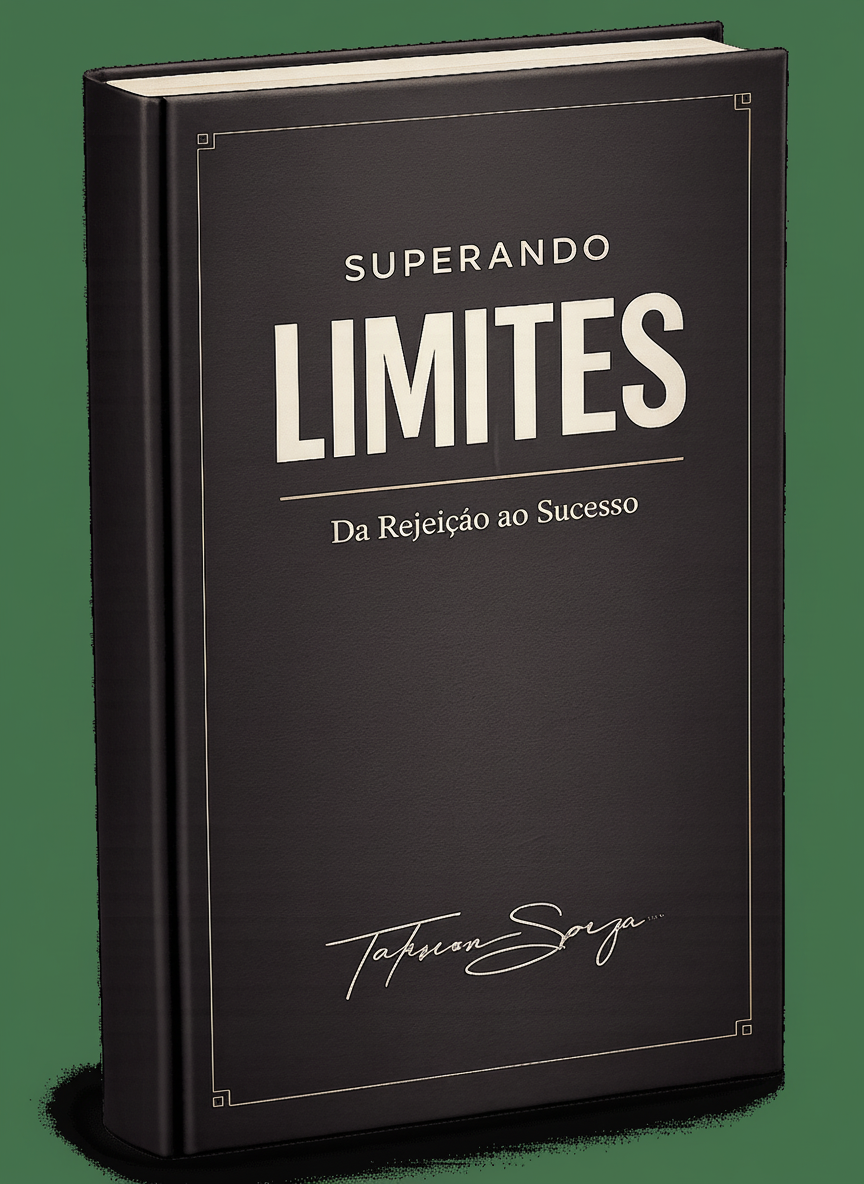
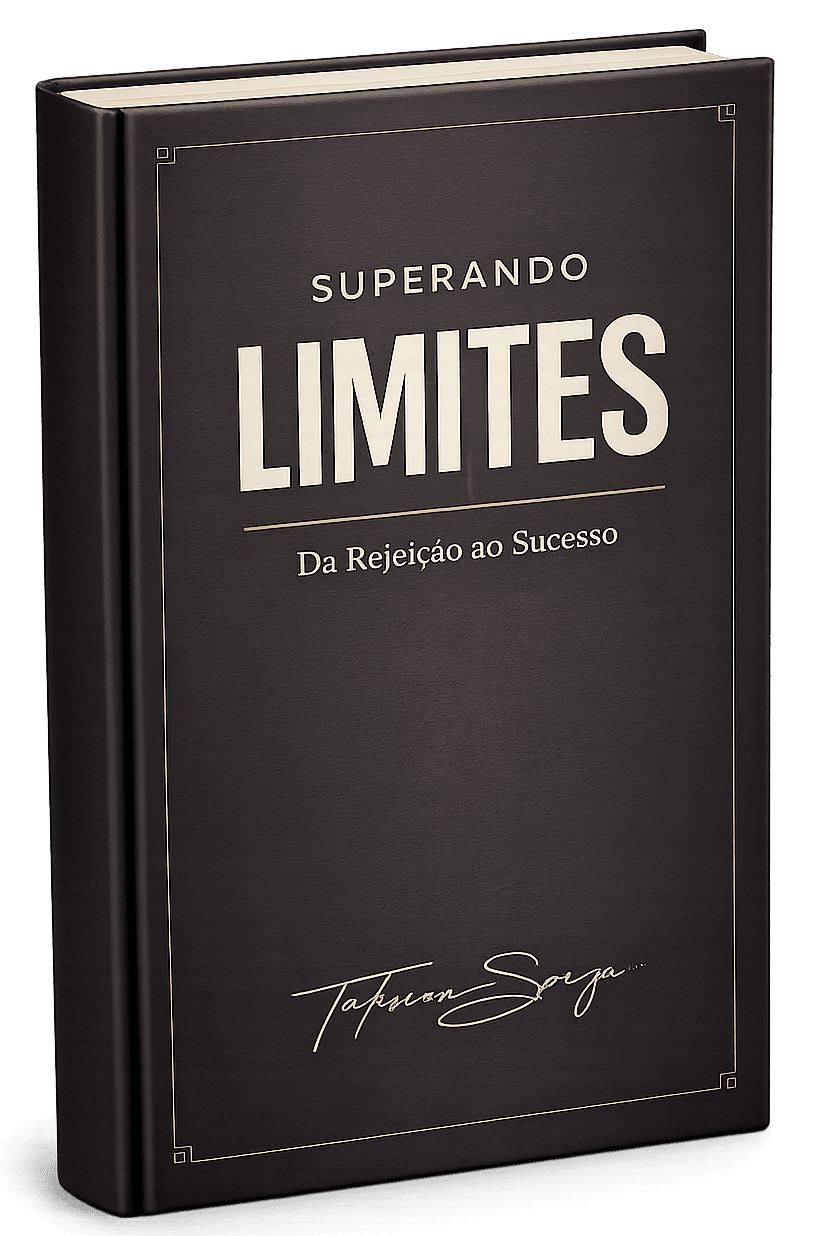
Changes

diff --git a/src/pages/Index.tsx b/src/pages/Index.tsx
@@ -1051,12 +1051,11 @@ const Index = () => {
                   </Link>
                 </div>
                 
-                <a href="https://www.amazon.com.br/dp/B0FXV8WP3Y" target="_blank" rel="noopener noreferrer" className="flex justify-center lg:justify-start relative">
-                  <div className="absolute inset-0 translate-x-3 translate-y-3 bg-black/40 rounded-xl blur-xl" />
+                <a href="https://www.amazon.com.br/dp/B0FXV8WP3Y" target="_blank" rel="noopener noreferrer" className="flex justify-center lg:justify-start">
                   <img
                     src={bookMockupImg}
                     alt={getText(language, 'Superando Limites - Da Rejeição ao Sucesso', 'Overcoming Limits - From Rejection to Success')}
-                    className="w-56 lg:w-72 h-auto cursor-pointer relative"
+                    className="w-56 lg:w-72 h-auto cursor-pointer"
                   />
                 </a>
               </div>
